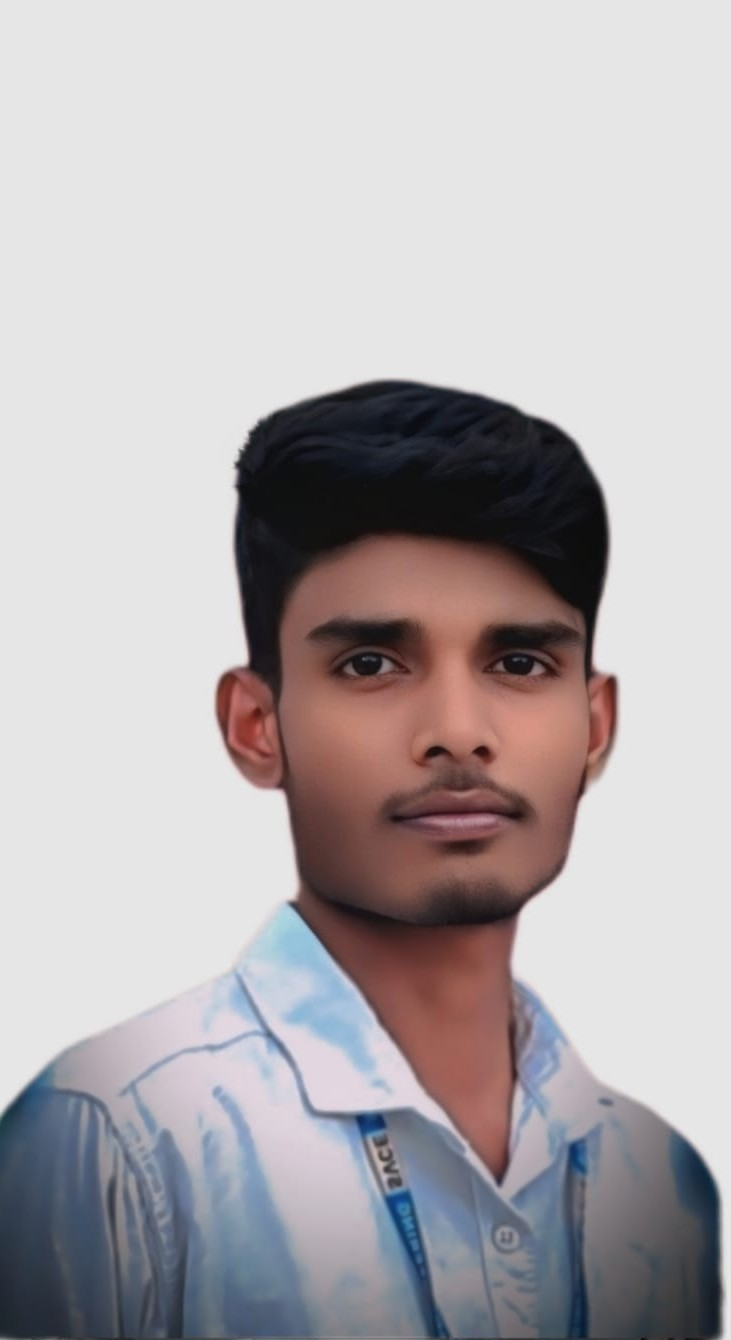
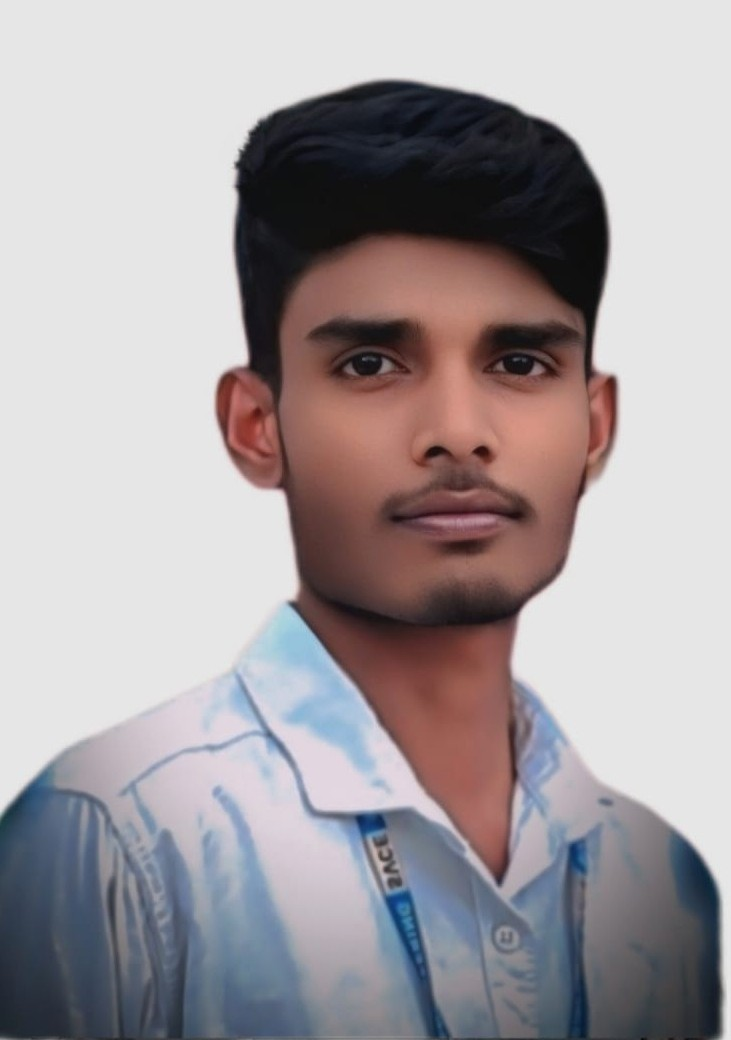
changed me img

diff --git a/assets/css/style.css b/assets/css/style.css
@@ -1321,11 +1321,12 @@ html {
 }
 
 .hero-image img {
-    width: 350px;
+    width: 400px;
+    height: 530px;
     text-align: center;
-    border-radius: 60px;
-    border: 3px solid #031113;
-    margin-top: -80px;
+    border-radius: 40px;
+    border: 4px solid #ffffff;
+    margin-top: -120px;
     rotate: 10deg;
     -webkit-transition: 0.4s;
     transition: 0.4s;
@@ -3421,7 +3422,7 @@ ul.blog_pagination li a:hover {
 
 
 .company-design-area {
-    padding: 100px 0px;
+    padding: 70px 0px;
 }
 
 .company-design-area h2 {
